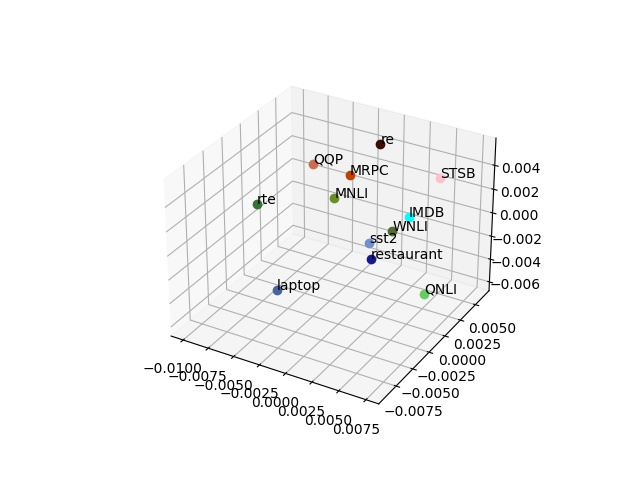
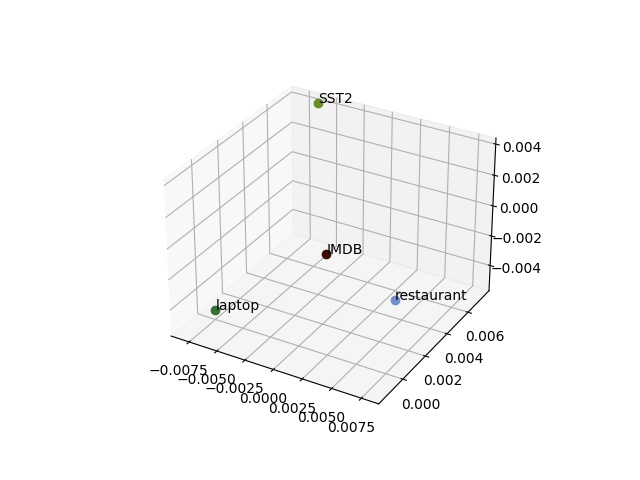
update

Changed region(s): [[0.25, 0.1875, 0.8438, 0.875], [0.2188, 0.75, 0.5938, 0.9062]]

diff --git a/draw_cuda_mlmprompt.py b/draw_cuda_mlmprompt.py
@@ -307,8 +307,8 @@ compressed_prompt_emb = compressed_prompt_emb.to("cpu").detach().numpy()
 color_map={0:"#728FCE",1:"#347235",2:"#3D0C02",3:"#6B8E23",4:"#C04000",5:"#64CD64",6:"#CB6D51",7:"#556B2F",8:"#FFC0CB",9:"#4863A0",10:"#151B8D",11:"#00FFFF"}
 
 
-blocked_list = []
-#blocked_list = [4]
+#blocked_list = []
+blocked_list = [4]
 #blocked_list = [1,3,4,5,6,7,8]
 #blocked_list = [1,3,2,5,8]
 

diff --git a/README.md b/README.md
@@ -181,6 +181,8 @@ Extra dataset:
 
 - https://arxiv.org/pdf/2004.10964.pdf
 
+- CS-wiki: git@github.com:pmernyei/wiki-cs-dataset.git
+
 1. Same task same domain: split dataset into two parts
 2. Same task differnt domain: mlm, don't stop pre-training (general task), some glue task 
 3. Smae domain different task: mlm, don't stop pre-training (general task)
@@ -189,6 +191,6 @@ Extra dataset:
 5. model transfer: matrix bert-roberta
 ---
 MLM domain prompt: 
-1. Compare Bio (chemprot,rct-20k), CS (), Movie review (SST, IMDB)
+1. Compare Bio (chemprot,rct-20k), CS (cs-wiki), Movie review (SST, IMDB)
 
 
